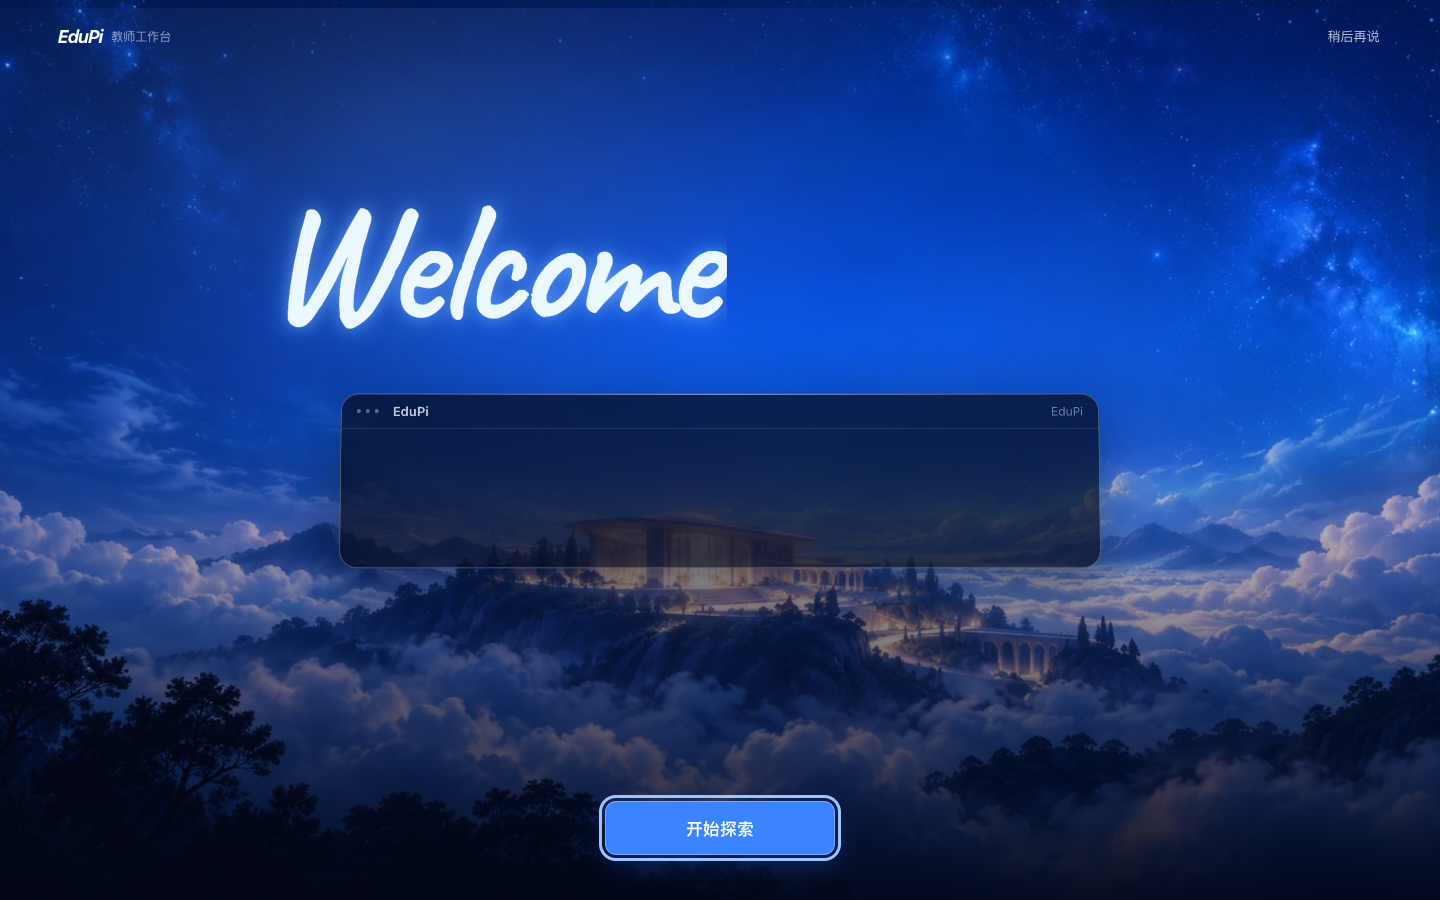
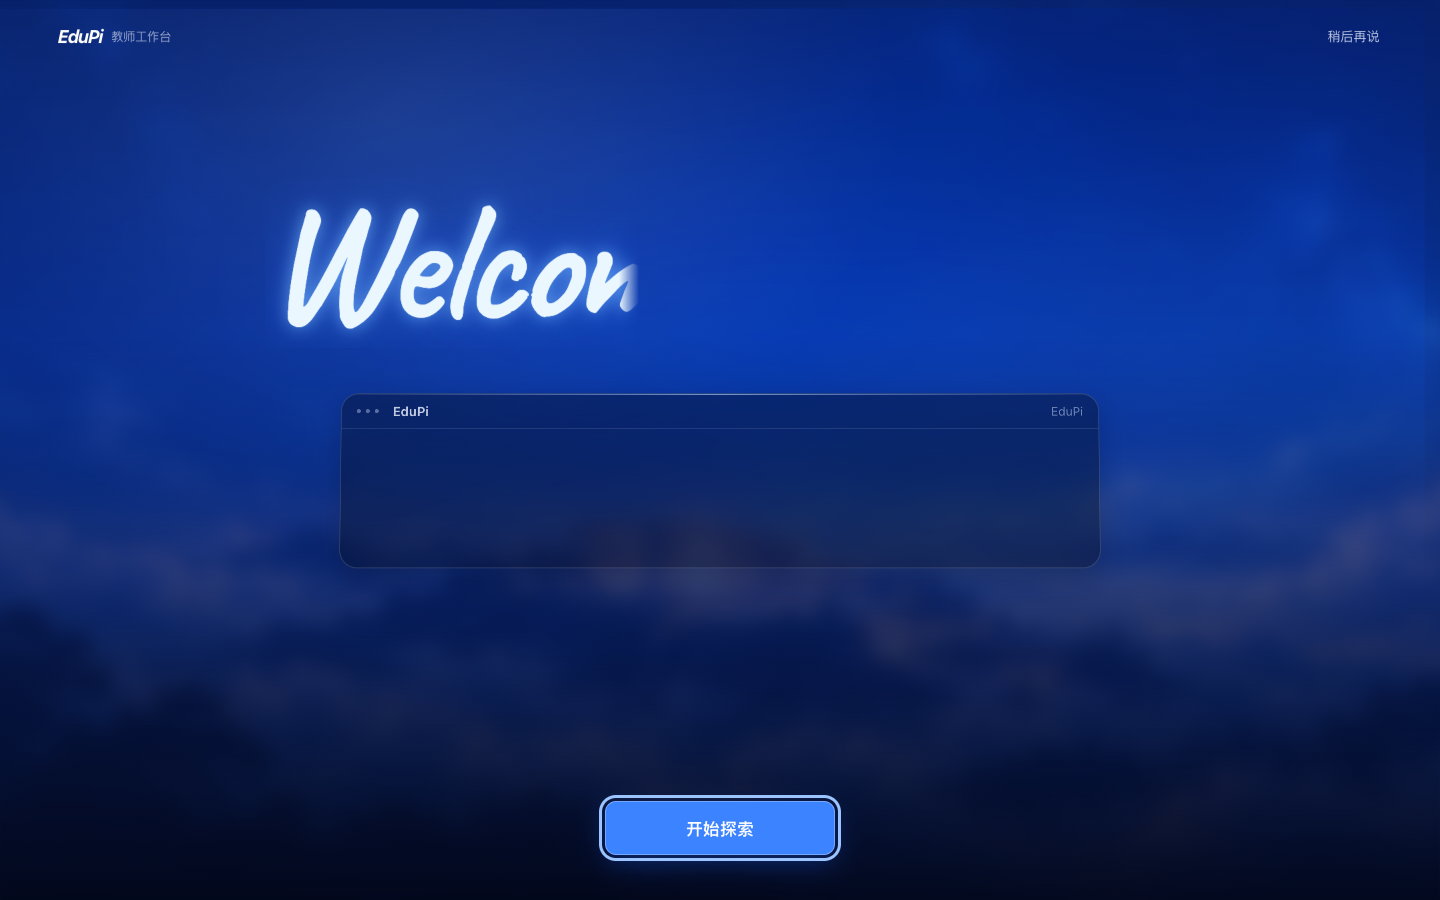
fix(onboarding): preserve welcome during slow font loading

diff --git a/app/edupi-first-run.css b/app/edupi-first-run.css
@@ -123,7 +123,7 @@
 .edupi-first-run.is-inline .edupi-first-run__scene { padding-top: 25px; }
 
 .edupi-first-run__welcome-script { display: flex; width: min(1160px, 94vw); flex: 0 0 auto; flex-wrap: wrap; align-items: baseline; justify-content: center; column-gap: .18em; color: #ecf8ff; font-family: "EduPi Welcome Script", cursive; font-size: clamp(82px, min(12vw, 19vh), 175px); font-weight: 600; line-height: 1; letter-spacing: -.035em; text-shadow: 0 0 18px rgba(114, 181, 255, .78), 0 0 48px rgba(54, 117, 255, .45); pointer-events: none; }
-.edupi-first-run__welcome-script span { display: block; clip-path: inset(-.12em 110% -.12em 0); }
+.edupi-first-run__welcome-script span { display: block; margin-right: -.18em; padding-right: .18em; clip-path: inset(-.12em -.12em -.12em 0); mask-image: linear-gradient(90deg, #000 49%, transparent 51%); mask-size: 210% 100%; mask-position: 100% 0; }
 .edupi-first-run__welcome-script.is-ready span { animation: edupi-first-run-script-write 1100ms cubic-bezier(.22, .76, .19, 1) forwards; }
 .edupi-first-run__welcome-script span:nth-child(1) { animation-delay: 180ms; }
 .edupi-first-run__welcome-script span:nth-child(2) { animation-delay: 1160ms; animation-duration: 480ms; }
@@ -326,7 +326,7 @@
 @keyframes edupi-first-run-demo-out { to { opacity: 0; transform: translateY(-7px) scale(.98); } }
 @keyframes edupi-first-run-form-in { from { opacity: 0; transform: translateY(12px) scale(.97); filter: blur(7px); } }
 @keyframes edupi-first-run-welcome-shell { from { background-color: transparent; border-color: transparent; box-shadow: none; } to { background-color: rgba(5, 11, 30, .84); } }
-@keyframes edupi-first-run-script-write { to { clip-path: inset(-.12em -.12em -.12em 0); } }
+@keyframes edupi-first-run-script-write { to { mask-position: 0 0; } }
 @keyframes edupi-first-run-feature-in { from { opacity: 0; transform: translateY(12px); } }
 @keyframes edupi-first-run-signal { to { transform: translateX(25px); } }
 @keyframes edupi-first-run-meter { to { opacity: .35; transform: scaleX(.65); } }
@@ -400,7 +400,7 @@
   .edupi-first-run.is-welcome .edupi-first-run__dialog { grid-template-rows: 50px minmax(0, 1fr) 110px; }
   .edupi-first-run.is-welcome .edupi-first-run__scene { gap: 9px; padding-bottom: 12px; }
   .edupi-first-run.is-welcome .edupi-first-run__welcome-script { font-size: 58px; line-height: .82; }
-  .edupi-first-run.is-welcome .edupi-first-run__preview[data-scene="0"] { height: 165px; }
+  .edupi-first-run.is-welcome .edupi-first-run__preview[data-scene="0"] { height: 175px; }
   .edupi-first-run.is-welcome .edupi-first-run__content { min-height: 110px; padding-bottom: 18px; }
 }
 
@@ -427,7 +427,7 @@
   .edupi-first-run__primary,
   .edupi-first-run__progress span { animation: none !important; transition: none !important; }
   .edupi-first-run__art.is-ready { opacity: 1; filter: none; transform: none; }
-  .edupi-first-run__welcome-script span { clip-path: none; }
+  .edupi-first-run__welcome-script span { clip-path: none; mask-image: none; }
   .edupi-first-run__welcome-feature { opacity: 1; transform: none; }
   .edupi-first-run__demo-layer.is-outgoing { display: none; }
   .edupi-first-run__primary:hover:not(:disabled), .edupi-first-run__primary:active:not(:disabled) { transform: none; }

diff --git a/components/EduPiFirstRunPreview.tsx b/components/EduPiFirstRunPreview.tsx
@@ -54,11 +54,12 @@ export function EduPiWelcomeScript() {
   useEffect(() => {
     let active = true;
     if (!document.fonts?.load) { setFontReady(true); return; }
+    const fallback = window.setTimeout(() => { if (active) setFontReady(true); }, 2500);
     document.fonts.load('600 170px "EduPi Welcome Script"').then(
-      () => { if (active) setFontReady(true); },
-      () => { if (active) setFontReady(true); },
+      () => { window.clearTimeout(fallback); if (active) setFontReady(true); },
+      () => { window.clearTimeout(fallback); if (active) setFontReady(true); },
     );
-    return () => { active = false; };
+    return () => { active = false; window.clearTimeout(fallback); };
   }, []);
 
   return <div className={`edupi-first-run__welcome-script${fontReady ? " is-ready" : ""}`} aria-hidden="true"><span>Welcome</span><span>To</span><span>Edupi</span></div>;

diff --git a/docs/acceptance/2026-10-29-r18-onboarding.md b/docs/acceptance/2026-10-29-r18-onboarding.md
@@ -2,15 +2,15 @@
 
 ## 当前状态
 
-2026-10-30 R18 欢迎画面视觉修正：用户指出旧版手写 `hello` 被限制在 190px 预览卡内且约 1.5 秒后消失。本次分支 `codex/onboarding-welcome-handwriting-20261030` 基于 Desktop Main `97fc276e5d75521f133b47fb00e87103ff68819f`，将完整 `Welcome To Edupi` 改为全屏手写字体逐词显现，字体加载完成后才启动描写，停留欢迎页时文字持续可见；预览卡只展示“提前交付”和“班级情况自动记忆”，不再把备课放在首屏主位。字体为 Google Fonts Caveat，连同 SIL OFL 许可证保存在 `public/onboarding/`。七步的保存检查、跳过、返回、表单和续接逻辑未改。
+2026-10-30 R18 欢迎画面视觉修正：用户指出旧版手写 `hello` 被限制在 190px 预览卡内且约 1.5 秒后消失。本次分支 `codex/onboarding-welcome-handwriting-20261030` 基于 Desktop Main `97fc276e5d75521f133b47fb00e87103ff68819f`，将完整 `Welcome To Edupi` 改为全屏手写字体逐词显现，优先等本地字体就绪，超时 2.5 秒仍会显示文字；停留欢迎页时文字持续可见。预览卡只展示“提前交付”和“班级情况自动记忆”，不再把备课放在首屏主位。字体为 Google Fonts Caveat，连同 SIL OFL 许可证保存在 `public/onboarding/`。七步的保存检查、跳过、返回、表单和续接逻辑未改。
 
[2 lines of base64/hex data omitted]
 
-隔离 Next dev 浏览器实际打开 1440×900、1024×768、768×600、320×568 和 320×480；手写标题、两项能力卡与主按钮均在视口内，最短窗口无横向溢出或卡片裁切。[描写中](assets/2026-10-30-welcome-handwriting/desktop-writing.png)、[生产构建写完后](assets/2026-10-30-welcome-handwriting/desktop-complete.png)、[320×480](assets/2026-10-30-welcome-handwriting/mobile-320x480.png)为实际页面截图。额外模拟字体加载延迟约 1.2 秒，动画在字体就绪后才开始；停留 8 秒标题仍可见。减少动态效果时手写与卡片动画为 `none`、文字直接可见；点击“开始探索”进入 02/08 模型步骤，表单从原预览面板展开，页面 `pageerror` 为 0。隔离 Core 不可用产生的非目标 503 不能证明模型或教学业务可用。
+隔离 Next dev 浏览器实际打开 1440×900、1024×768、768×600、320×568 和 320×480；手写标题、两项能力卡与主按钮均在视口内，最短窗口无横向溢出或卡片裁切。[描写中](assets/2026-10-30-welcome-handwriting/desktop-writing.png)、[生产构建写完后](assets/2026-10-30-welcome-handwriting/desktop-complete.png)、[320×480](assets/2026-10-30-welcome-handwriting/mobile-320x480.png)为实际页面截图。额外模拟字体加载延迟约 1.2 秒，动画在字体就绪后才开始；再模拟约 4.5 秒延迟，2.5 秒 fallback 在字体尚未加载时让标题开始显示。停留 8 秒标题仍可见。减少动态效果时手写与卡片动画为 `none`、文字直接可见；点击“开始探索”进入 02/08 模型步骤，表单从原预览面板展开，页面 `pageerror` 为 0。隔离 Core 不可用产生的非目标 503 不能证明模型或教学业务可用。
 
-本增量针对性 `node --test components/EduPiFirstRunGuide.test.mjs` 为 6 pass / 0 fail / 0 skip；`node_modules/.bin/tsc --noEmit`、目标 ESLint 与 `git diff --check` 退出 0。停止开发服务后，`npm run build` 退出 0，仍有未改动的会话导出路由动态依赖 warning；`npm run start` 的生产页面实测本地字体请求 200、手写和两项能力可见、点击进入 02/08 模型步骤。**已实现待安装验收**：`.89` 安装版与已固定源码的 `.90` 候选均未包含本次更正，不能用开发页或生产网页截图宣称已更新安装版；下一签名候选需单独原生核对。
+本增量针对性 `node --test components/EduPiFirstRunGuide.test.mjs` 为 6 pass / 0 fail / 0 skip；`node_modules/.bin/tsc --noEmit`、目标 ESLint 与 `git diff --check` 退出 0。停止开发服务后，`npm run build` 退出 0；构建期间有外部连接 `ETIMEDOUT` 重试及未改动的会话导出路由动态依赖 warning，均未导致失败。`npm run start` 的生产页面实测本地字体请求 200、手写和两项能力可见、点击进入 02/08 模型步骤。**已实现待安装验收**：`.89` 安装版与已固定源码的 `.90` 候选均未包含本次更正，不能用开发页或生产网页截图宣称已更新安装版；下一签名候选需单独原生核对。
 
-浏览器、开发与生产服务均已停止；确认 30141 无监听、`.next/` 无活动句柄且 `.next/`、`.playwright-mcp/` 不受 Git 跟踪后，删除这两个生成目录及本轮隔离数据、视频抽帧。清理前分配 1,290,354,688 字节，可用空间实测增加 1,291,218,944 字节；源码、字体许可、已收录截图及原视频保留。[脱敏清理摘要](assets/2026-10-30-welcome-handwriting/cleanup-summary.json)。
+两轮浏览器、开发与生产服务均已停止；各轮确认 30141 无监听、`.next/` 无活动句柄且 `.next/`、`.playwright-mcp/` 不受 Git 跟踪后，删除这两个生成目录及本轮隔离数据、视频抽帧。两轮删除路径原分配量合计 2,583,810,048 字节，同卷可用空间实测增量合计 2,585,554,944 字节；源码、字体许可、已收录截图及原视频保留。[脱敏清理摘要](assets/2026-10-30-welcome-handwriting/cleanup-summary.json)。
 
 2026-10-30 `.89` 安装版：唯一 `/Applications/EduPi.app` 为签名公证的 `.89`，固定 Desktop Main `02ee02ffe99d25397124850d1df663268687fa71`／Core `f599fc389eecde7de4718a731e8304524c11dc72`。原生新隔离根首次欢迎、教师资料保存、ICS材料暂存均可操作；在 owner 未初始化时明确显示“本机身份尚未建立”，采用禁用。点“建立本机身份”后同材料显示单项提案；首次原生采用弹窗取消仍待确认，第二次确认后材料“已采用1项安排”、日程页仅一条、操作历史写入一次。正常退出再冷启后同一教师资料、日程与材料回执保持；日程“推断／待确认”保留后续教师核对。真实325保护文件逐字节相同，3个WebView origin恢复；App已退出、真实模型未调用。私有原生记录 `~/edupi-install-checkpoints/v0.3.89/evidence/installed-gui-089.json` 与资料/安装证明在同目录。Core的新Main `86ef6c98676789e61dec81594c75968922a964e3` 于本次构建后合入，尚未消费。本段取代下方`.88`为当前安装版的状态。
 
